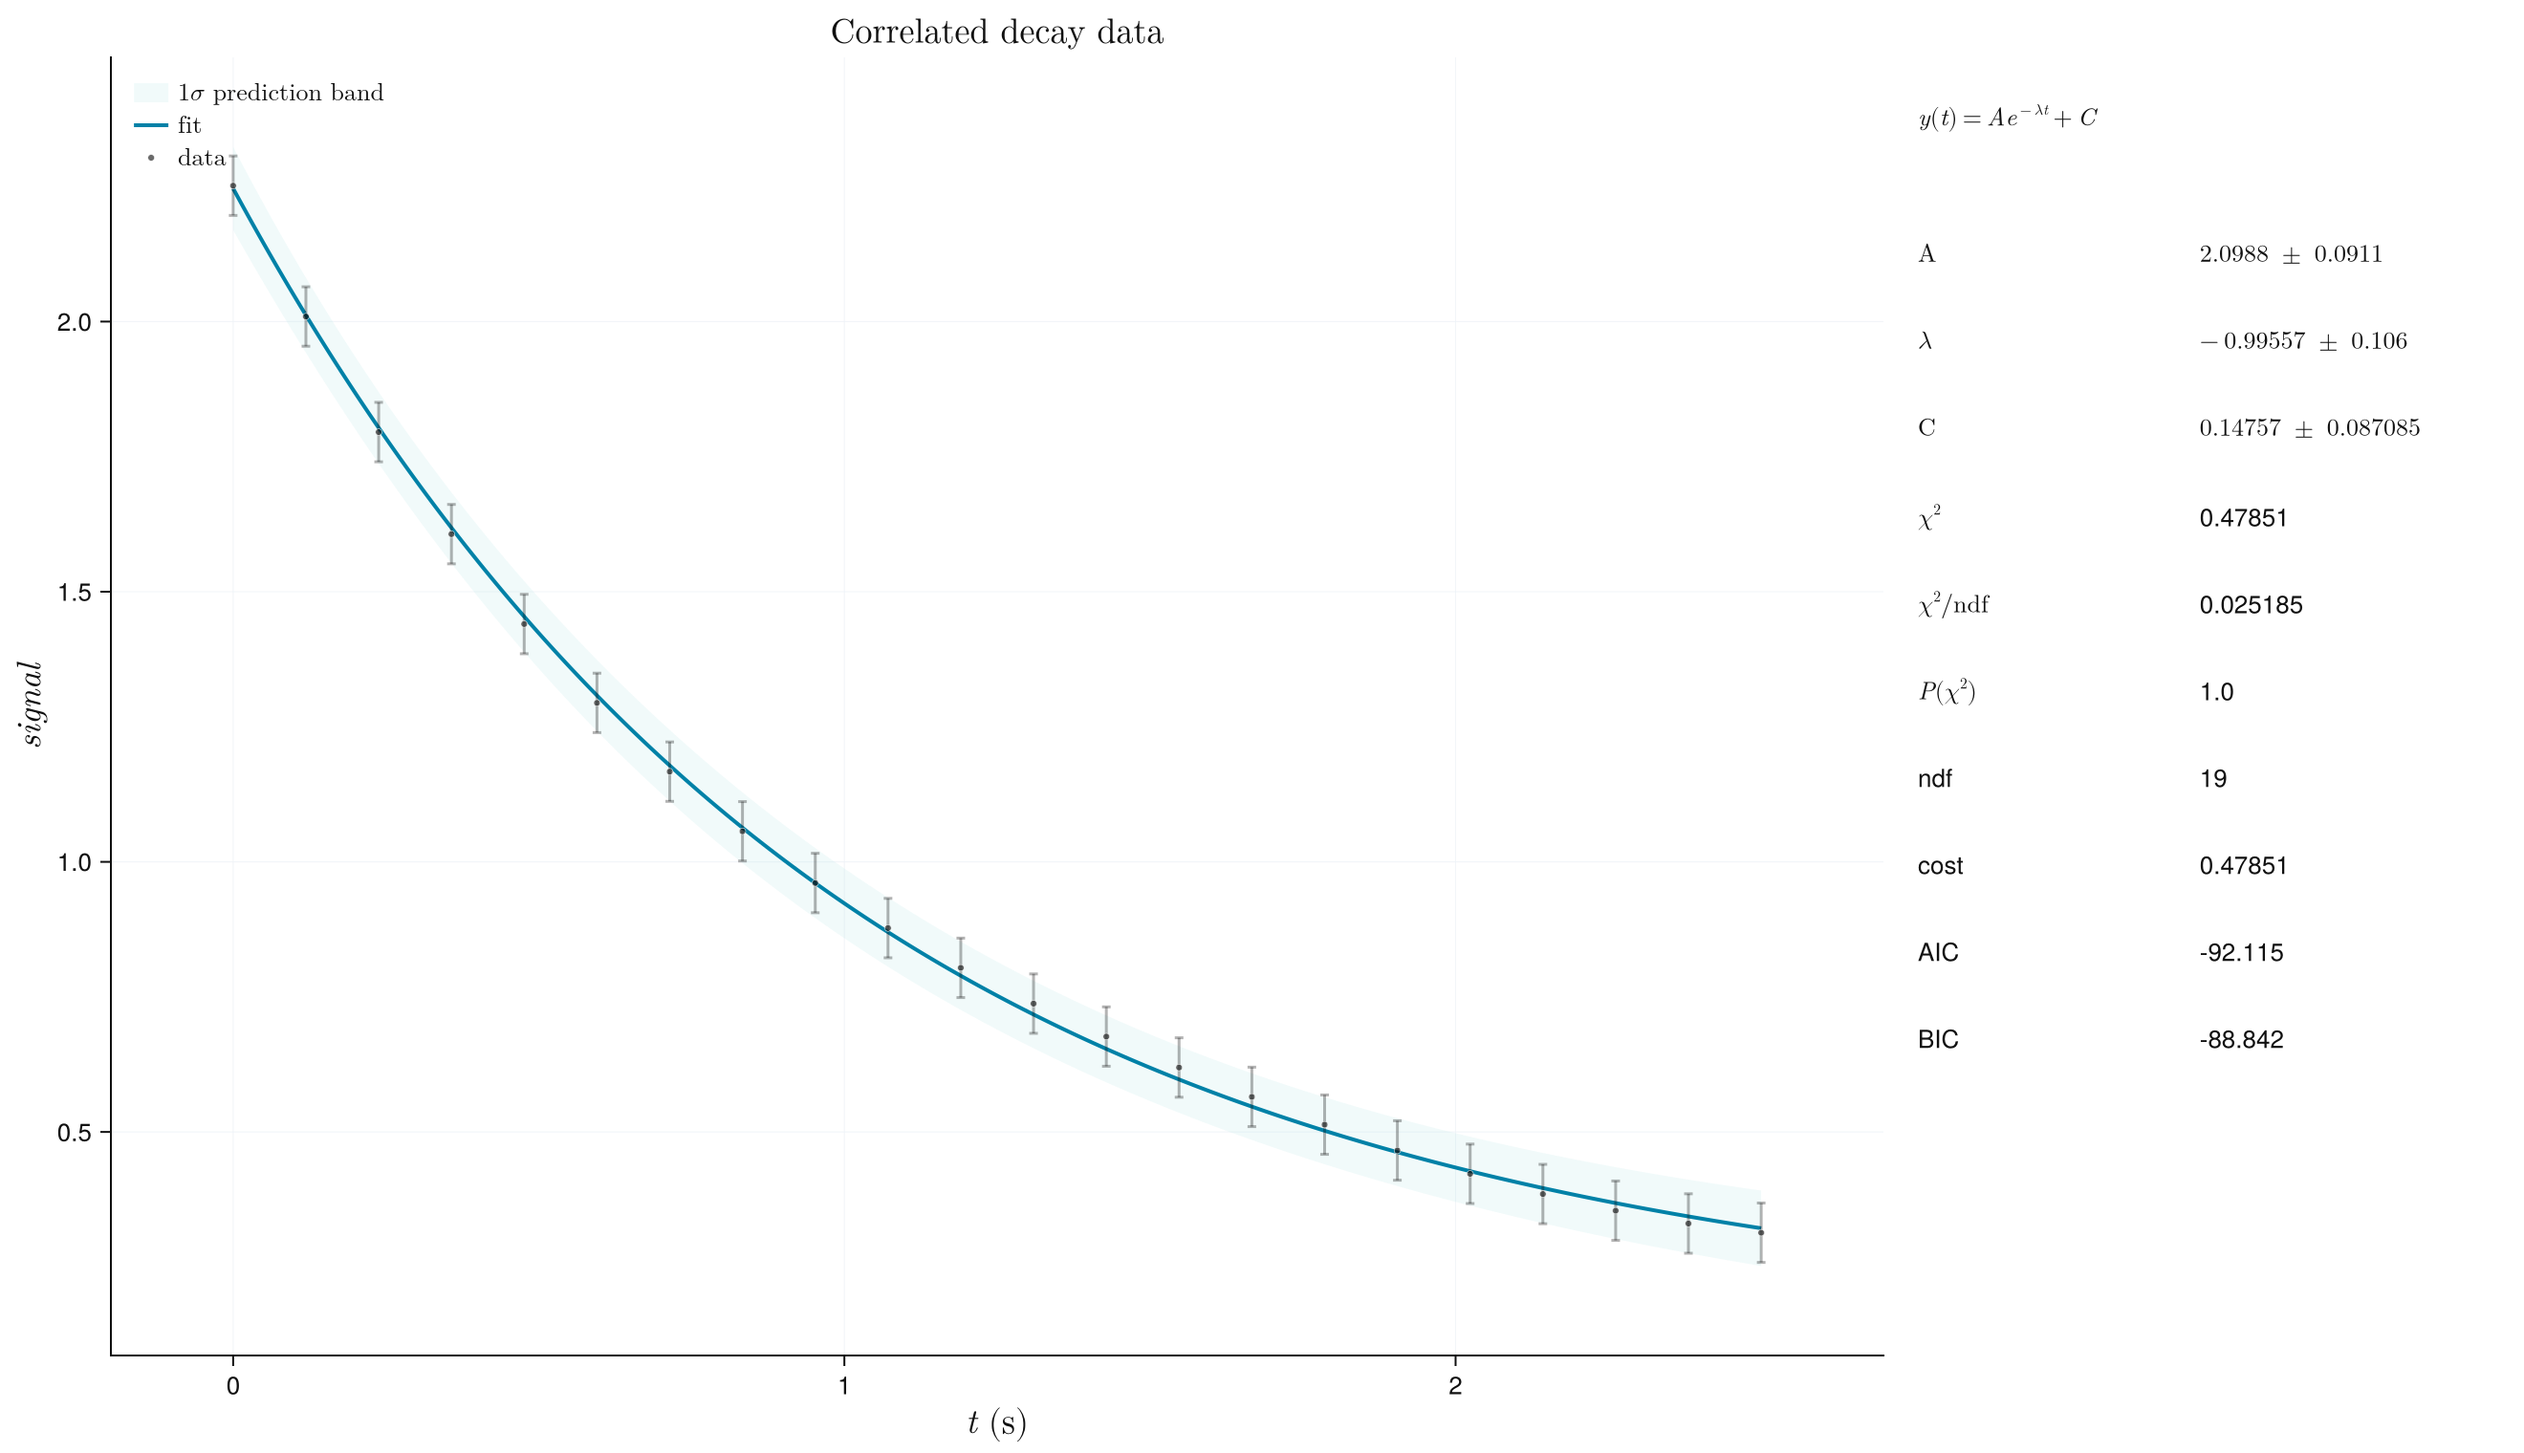
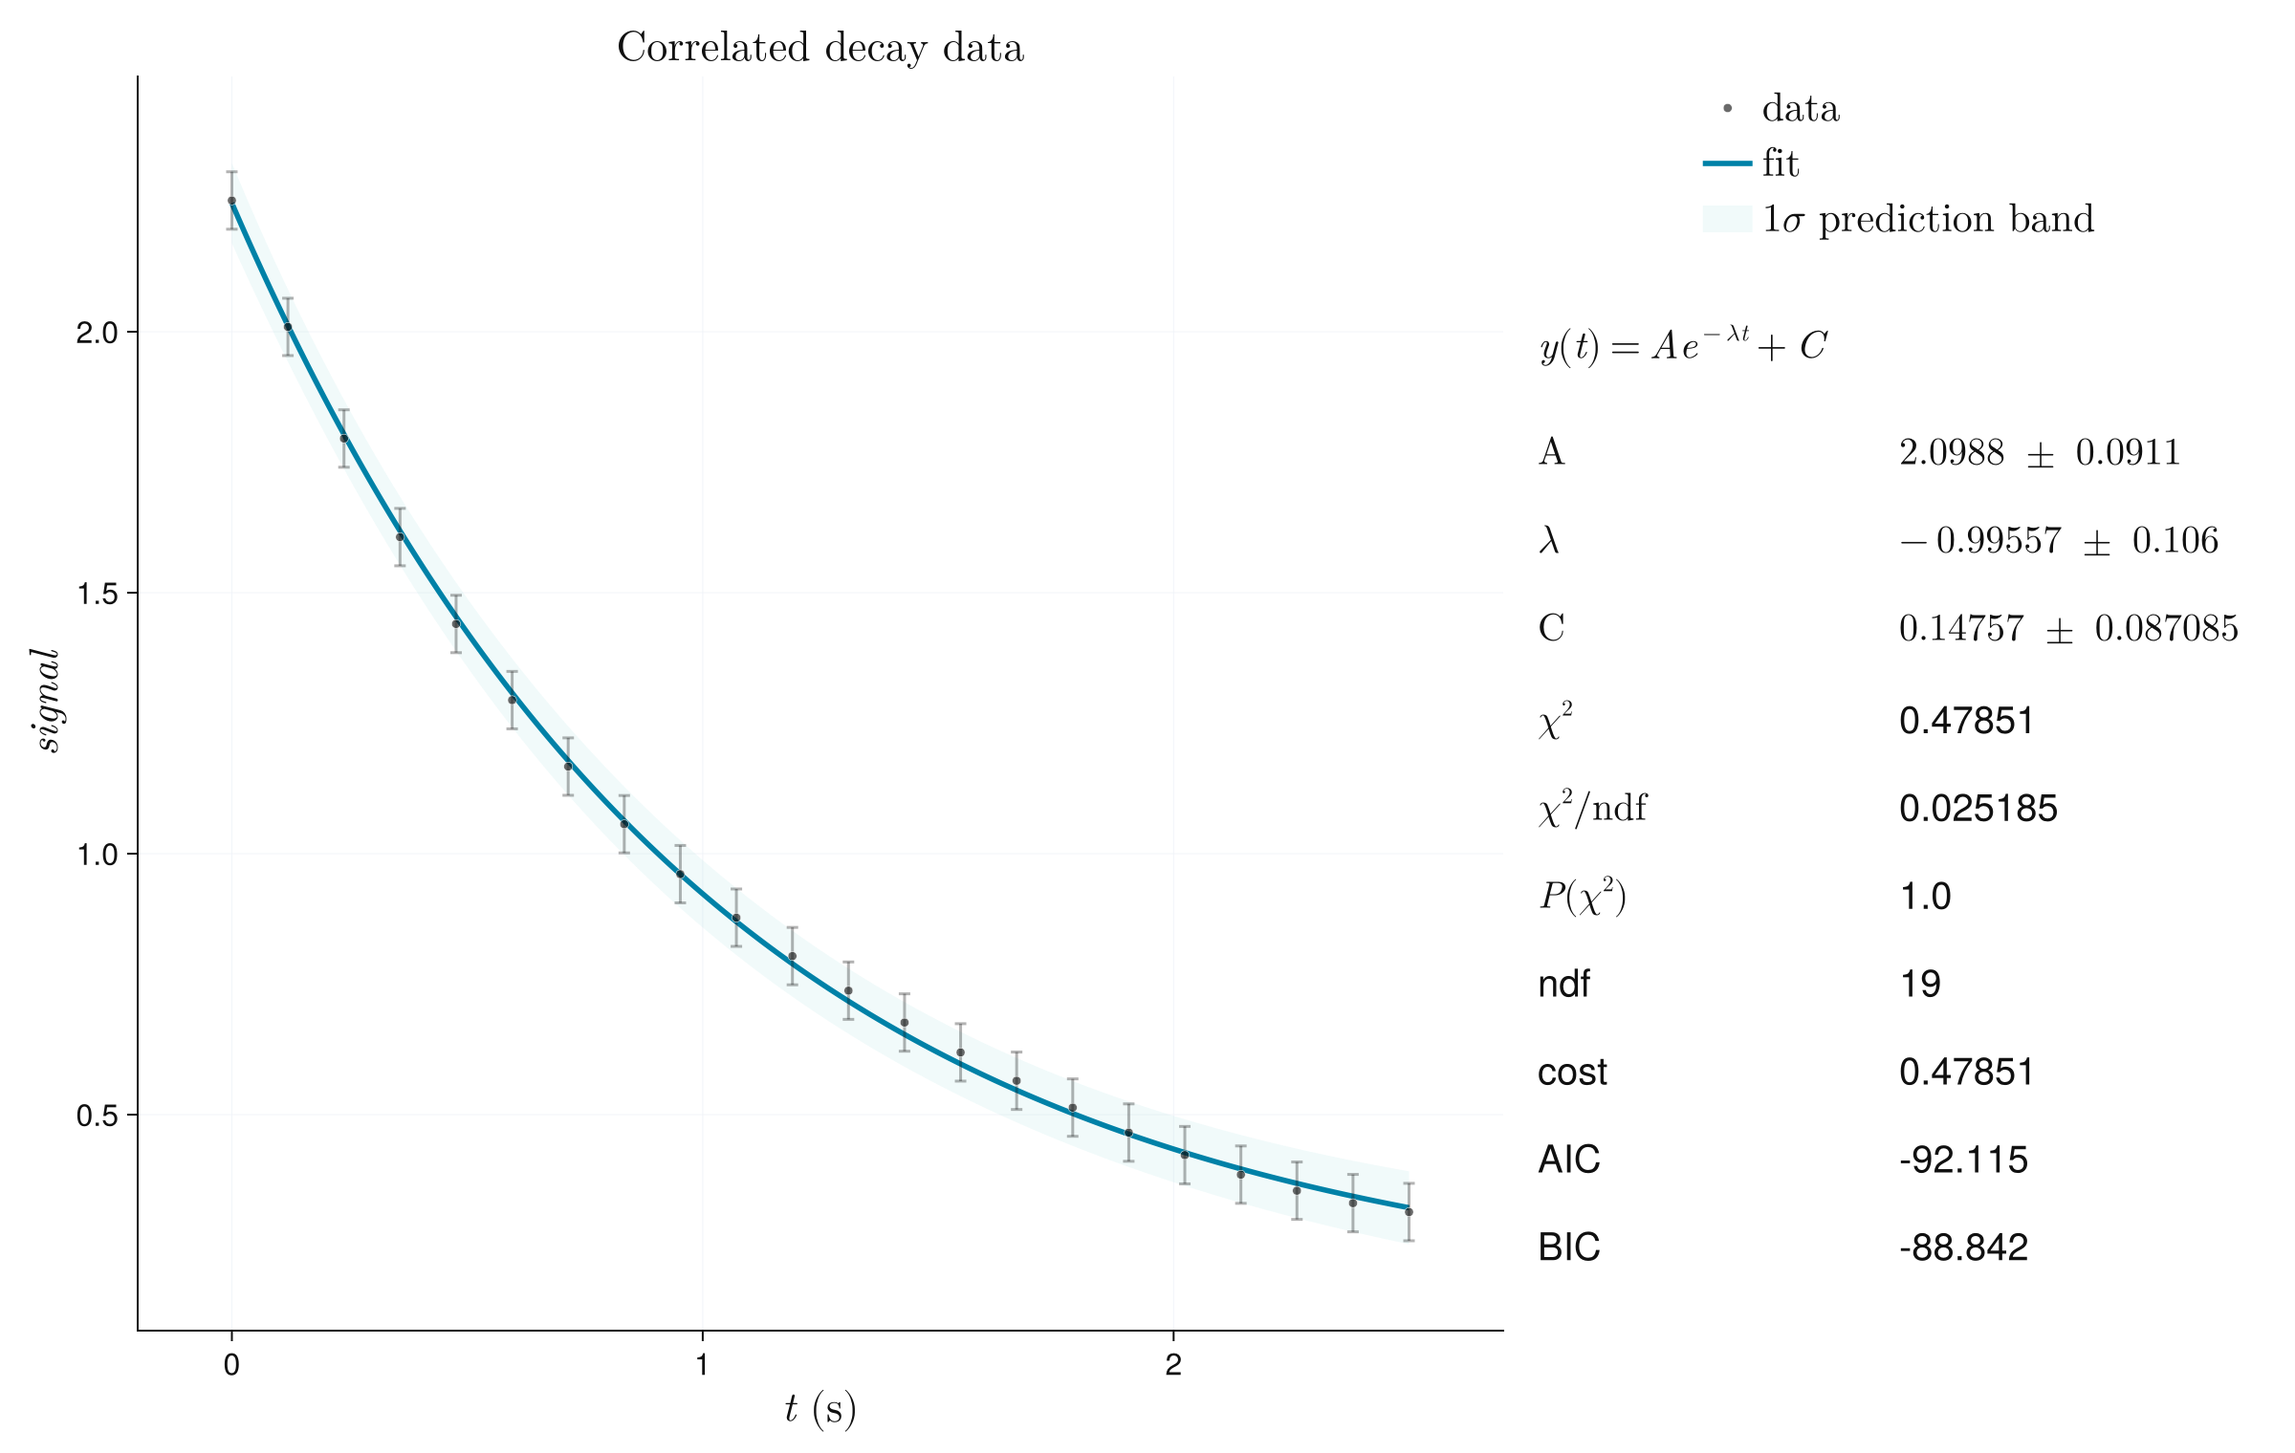
Fix docs plot themes and improve layouts

diff --git a/docs/src/assets/jufitter.css b/docs/src/assets/jufitter.css
@@ -212,16 +212,30 @@ html.theme--documenter-dark .jufitter-flow-step {
   overflow: hidden;
 }
 
-.jufitter-plot-dark {
-  display: none;
+@media (min-width: 900px) {
+  .content img.jufitter-plot {
+    display: block;
+    margin-left: 50%;
+    max-width: none !important;
+    transform: translateX(-50%);
+    width: min(1120px, calc(100vw - 24rem)) !important;
+  }
+}
+
+html:not(.theme--documenter-dark) .jufitter-plot-light {
+  display: block !important;
+}
+
+html:not(.theme--documenter-dark) .jufitter-plot-dark {
+  display: none !important;
 }
 
 html.theme--documenter-dark .jufitter-plot-light {
-  display: none;
+  display: none !important;
 }
 
 html.theme--documenter-dark .jufitter-plot-dark {
-  display: block;
+  display: block !important;
 }
 
 .jufitter-gallery-item div {

diff --git a/docs/src/maintenance.md b/docs/src/maintenance.md
@@ -47,6 +47,19 @@ large temporary matrices inside every objective call.
 - Full gallery generation will become expensive once docs embed many high
   quality plots; split fast docs checks from full visual builds if needed.
 
+## Plot Layout Rules
+
+- When `show_legend=true` and `stats_position=:right`, `plot_fit` places the
+  legend above the right-side report instead of consuming data-axis space.
+- Default fit plots use larger axis, tick, legend, and report typography than
+  the compact paper themes. Documentation assets use an additional web-specific
+  scale because raster plots are reduced inside the Documenter content column.
+- Documentation light/dark assets must share the
+  `jufitter-plot-light`/`jufitter-plot-dark` classes. CSS guarantees exactly one
+  visible variant for the active Documenter theme.
+- Gallery asset regeneration is a visual change and must be checked in both
+  themes before commit.
+
 ## Numerical Rules
 
 - Do not use explicit matrix inverse in production covariance calculations.

diff --git a/docs/src/quickstart.md b/docs/src/quickstart.md
@@ -89,6 +89,11 @@ println()
 println(diagnostic_dashboard_text(result))
 ```
 
+```@raw html
+<img class="jufitter-plot jufitter-plot-light" src="assets/gallery/quickstart_linear_light.png" alt="Quickstart calibration fit">
+<img class="jufitter-plot jufitter-plot-dark" src="assets/gallery/quickstart_linear_dark.png" alt="Quickstart calibration fit in dark mode">
+```
+
 `fitplot(x, y; sigma_y=...)` uses a straight-line model by default. If you want
 to make the model explicit, use:
 
